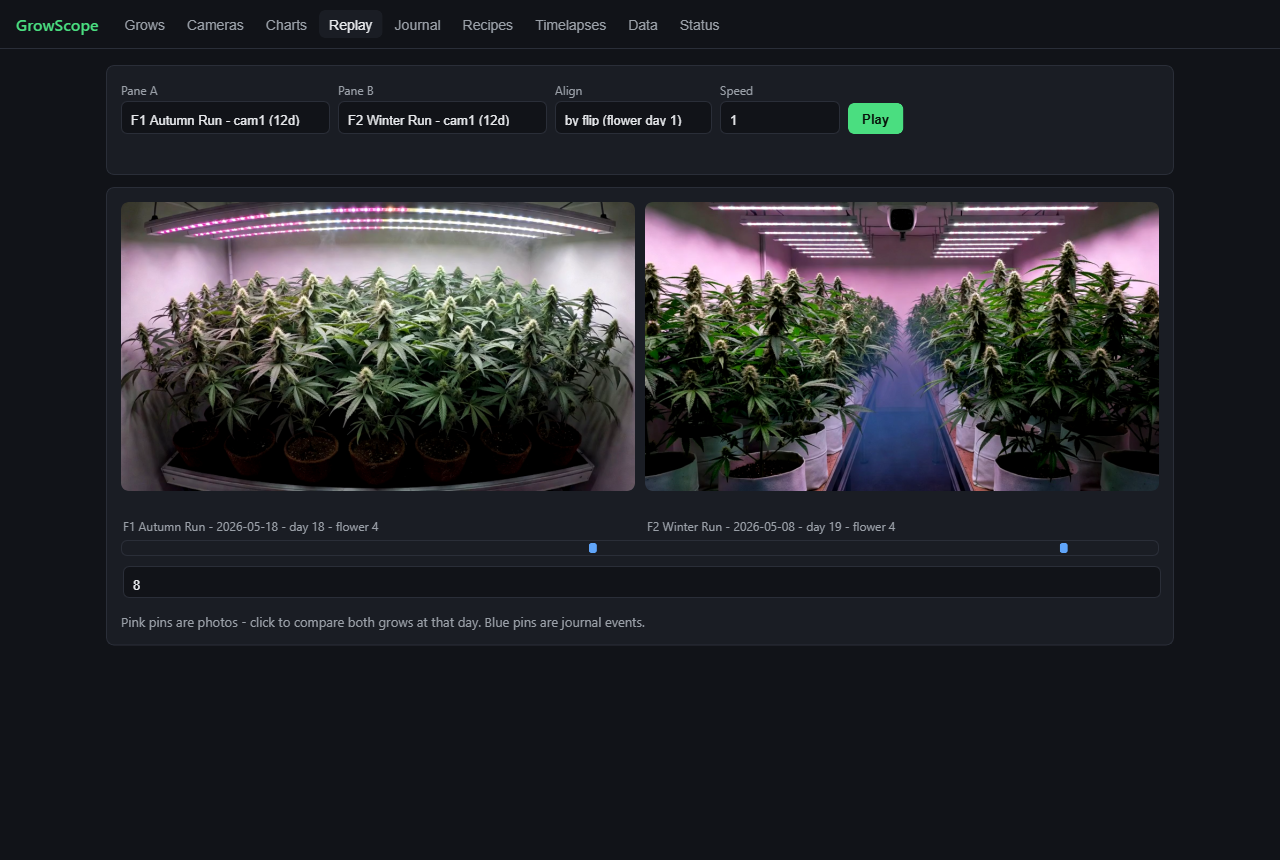
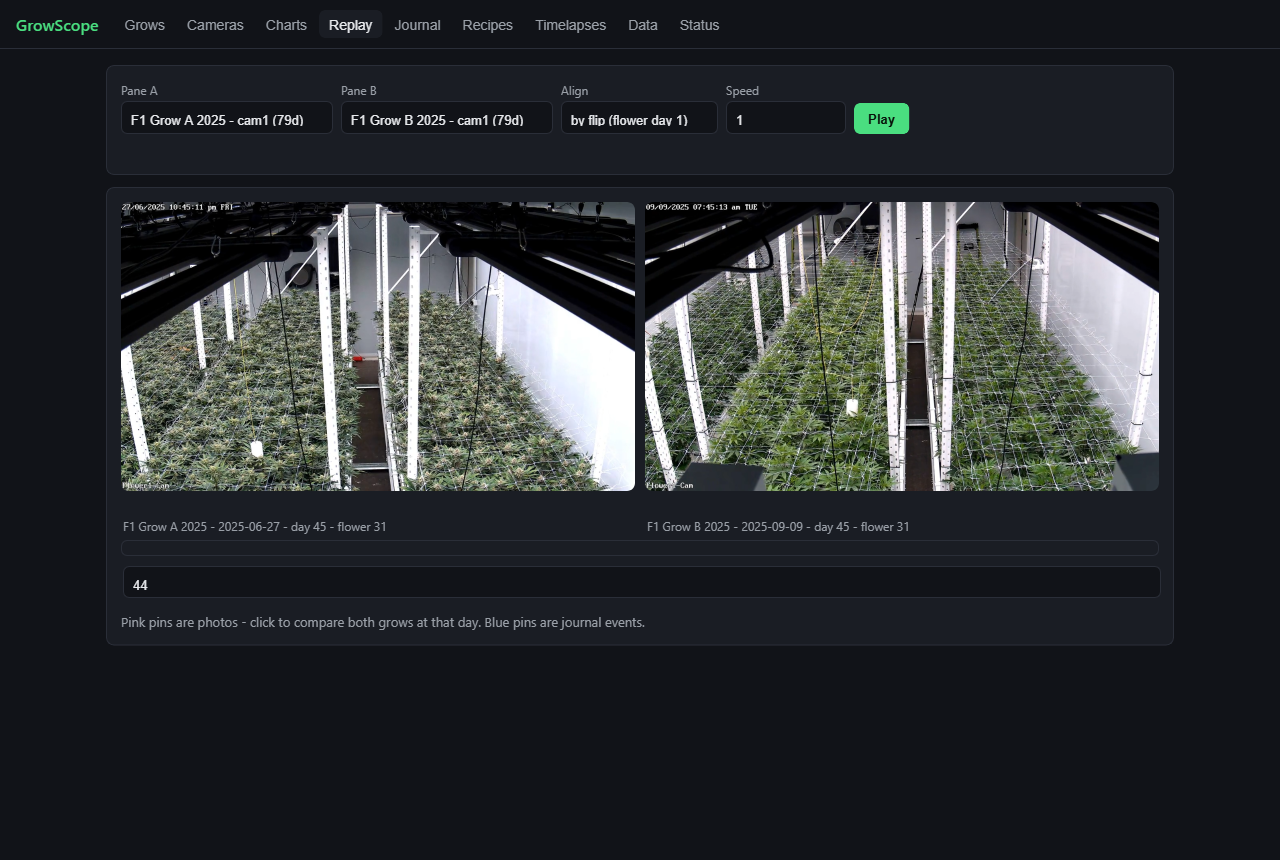
Replace replay screenshot with real F1 footage from the two 2025 runs
Same room, May-run vs September-run, both at day 45 / flower 31 - the
in-frame camera OSD dates (27/06/2025 and 09/09/2025) corroborate the
day-of-cycle sync.

diff --git a/README.md b/README.md
@@ -28,7 +28,7 @@ This is an early cut. It works, I run it, but expect rough edges and version-to-
 
 ## Screenshots
 
-Replay - two different rooms, two different calendar dates, the same flower day. This is the point of the whole app:
+Replay - the same room, two real runs three months apart, both sitting on flower day 31. The camera timestamps in-frame corroborate the sync. This is the point of the whole app:
 
 ![Replay](docs/screenshots/replay.png)
 